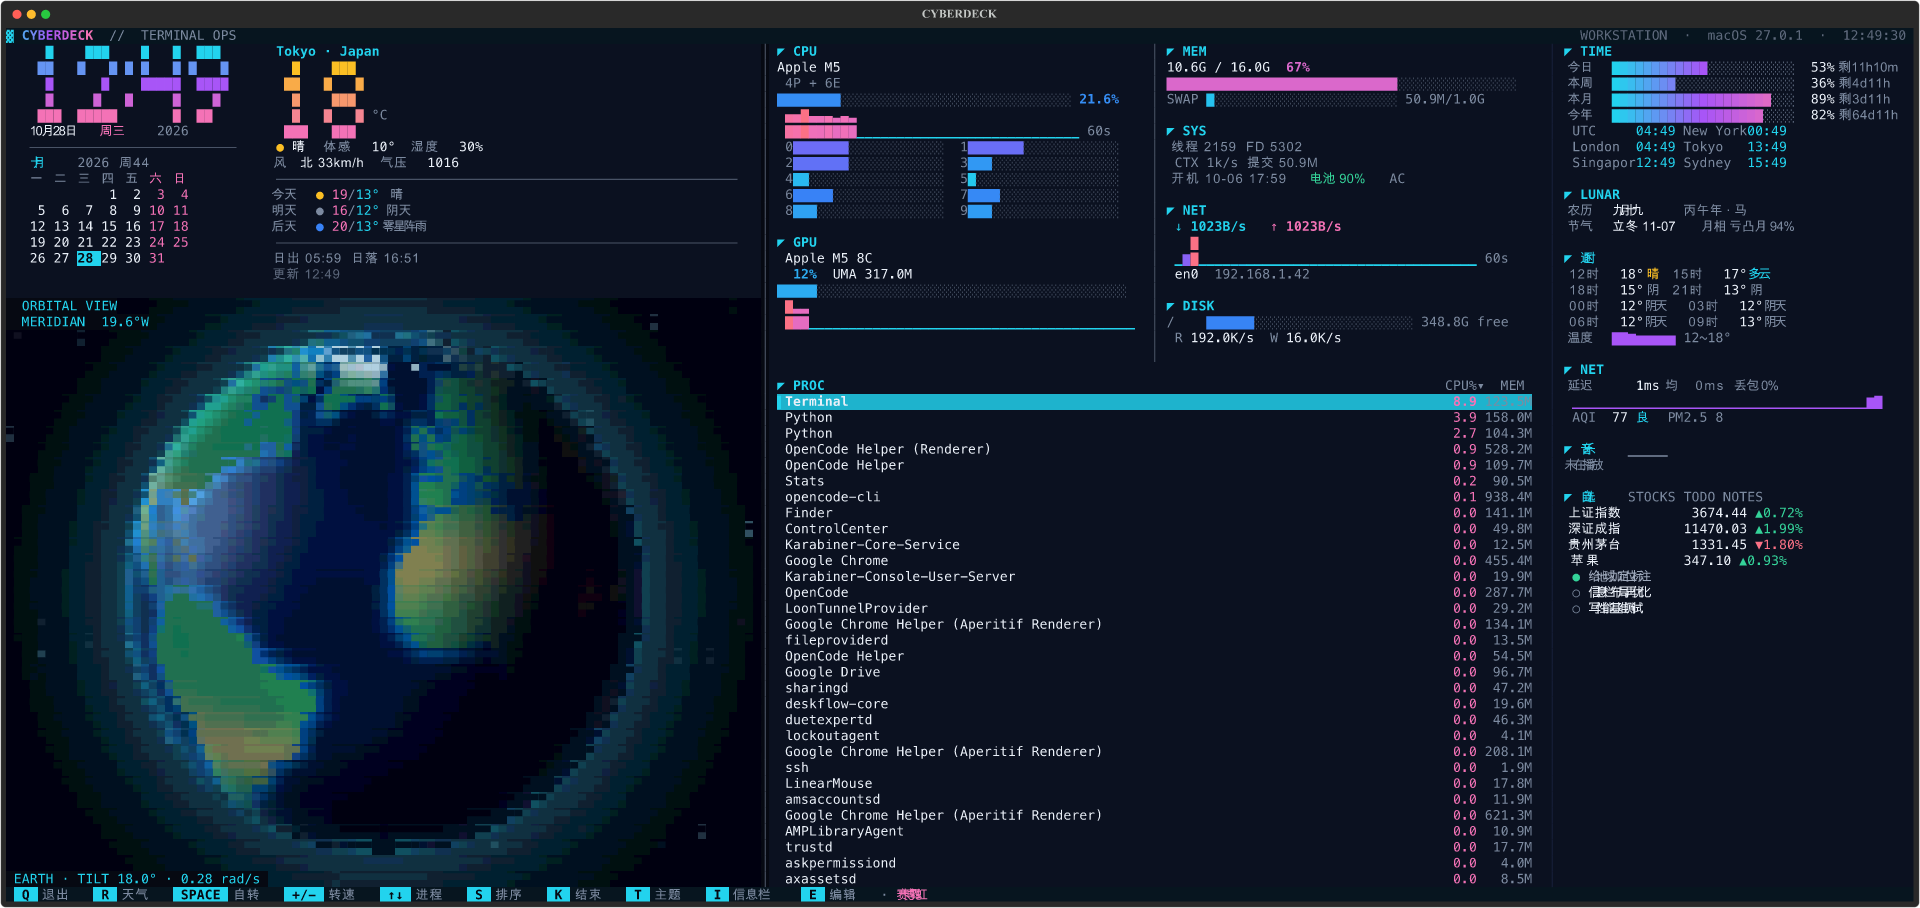
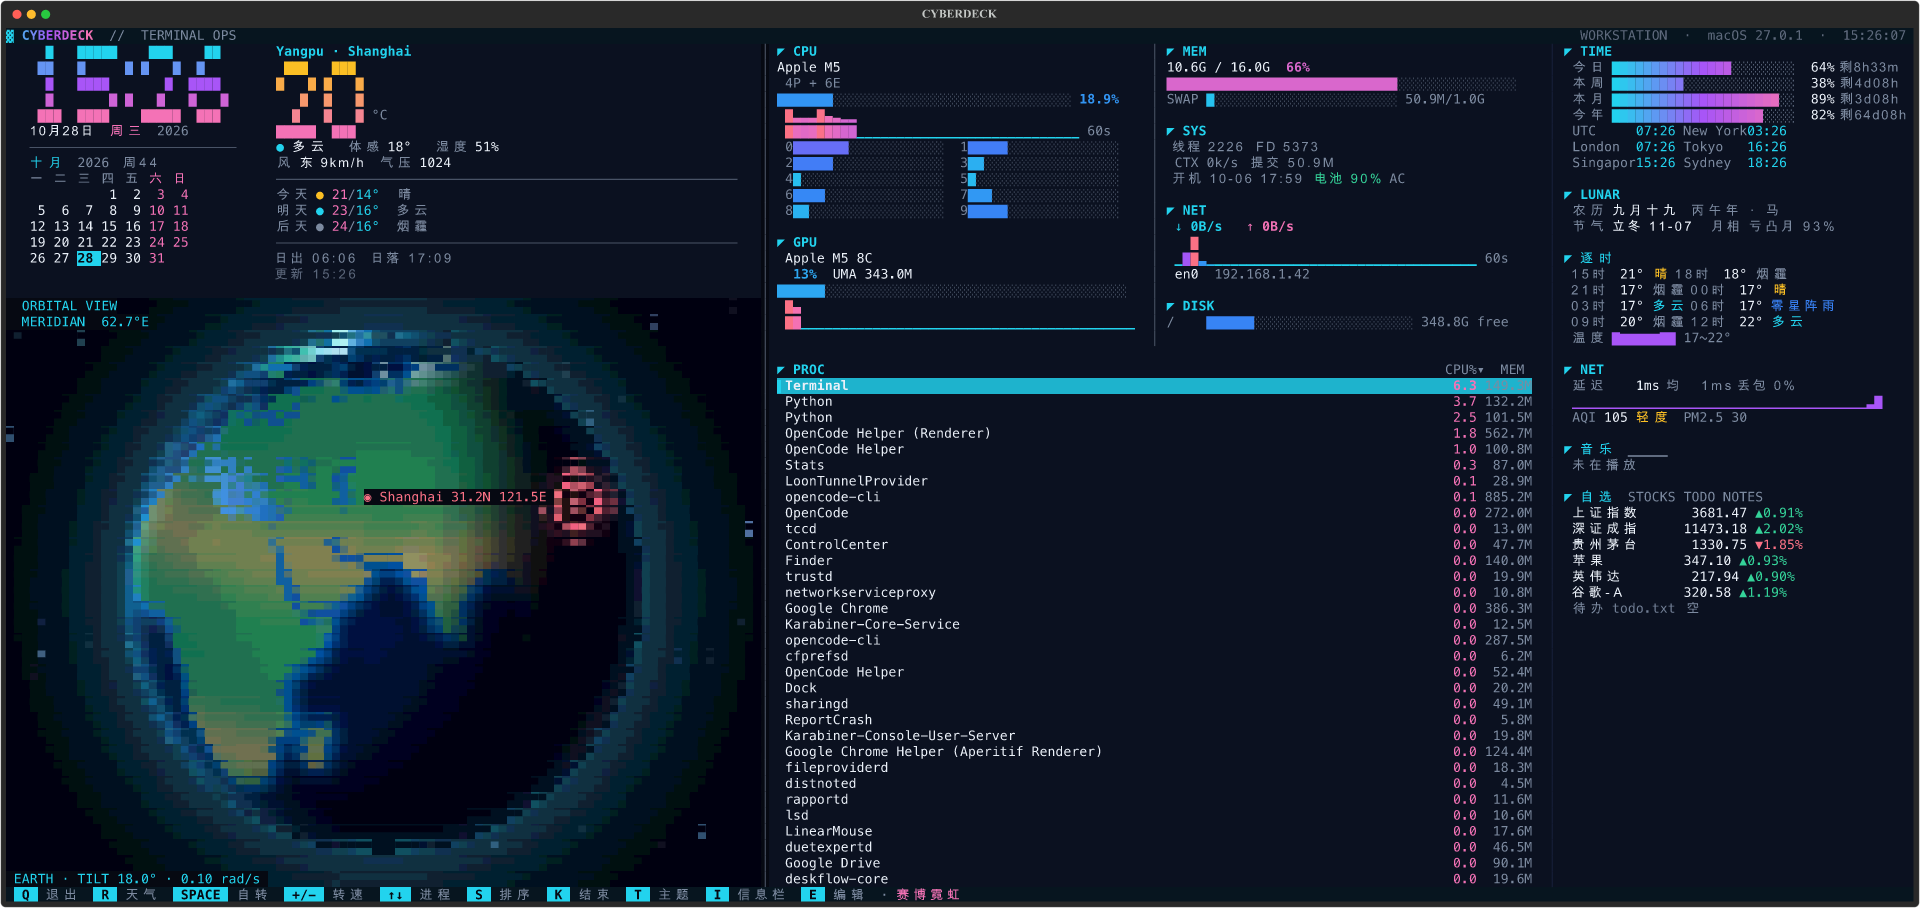
fix: make manual location survive clearing and live edits
- clearing the location field now removes location + city from disk and
  returns the weather city to the OS timezone
- reject malformed coordinates instead of silently wiping the old pin
- query wttr.in by coordinates when no name is given
- watch config.json so a hand-edited location updates the pin and weather
  within ~5 s, without a restart
- clear the globe marker when the pin disappears
- smoke tests restore config/todo/notes; bump to 0.3.0 and refresh docs

Also regenerate the macOS preview with the reticle and manual Shanghai pin.

diff --git a/src/cyberdeck/app.py b/src/cyberdeck/app.py
@@ -168,11 +168,16 @@ class CyberDeck(App):
         self.title = "CYBERDECK"
         self.config = storage.load_json("config.json") or {}
         pinned = self.config.get("location")
-        pinned_city = pinned.get("name") if isinstance(pinned, dict) else None
-        # --city > config city > pinned coordinates > OS timezone (IP guessing lies behind a VPN)
-        chosen = city or self.config.get("city") or pinned_city
-        self.city = chosen or system_city() or None
-        self._city_pinned = bool(chosen)
+        pin_name = pinned.get("name") if isinstance(pinned, dict) else None
+        cfg_city = self.config.get("city")
+        if cfg_city and pin_name and cfg_city == pin_name:
+            # older builds persisted the pin name as a separate city; the pin owns it now
+            self.config.pop("city", None)
+            cfg_city = None
+        # --city > config city > pinned name > OS timezone (IP guessing lies behind a VPN)
+        self._explicit_city = city or cfg_city
+        self.city = self._explicit_city or pin_name or system_city() or None
+        self._city_pinned = bool(self._explicit_city)
         try:
             self.fps = max(1, min(30, int(fps if fps is not None else self.config.get("fps", 8))))
         except (TypeError, ValueError):
@@ -199,6 +204,7 @@ class CyberDeck(App):
         self._sync_size(self.size)
         self.query_one(SystemPanel).focus()
         self._terminal_hint()
+        self.set_interval(5.0, self._sync_location_config)
 
     def _terminal_hint(self) -> None:
         """Apple Terminal has no truecolor; the Earth looks better in modern terminals."""
@@ -239,6 +245,45 @@ class CyberDeck(App):
         self.query_one("#left").styles.border_right = ("solid", theme.hexc(theme.mix(p.dim, p.bg, 0.35)))
         self.refresh()
 
+    def _weather_city(self) -> str | None:
+        """City for wttr.in: explicit override, else the pin (name or coordinates), else timezone."""
+        if self._explicit_city:
+            return self._explicit_city
+        pinned = self.config.get("location")
+        if isinstance(pinned, dict):
+            name = str(pinned.get("name") or "").strip()
+            if name:
+                return name
+            try:
+                return f"{float(pinned['lat']):.4f},{float(pinned['lon']):.4f}"
+            except (KeyError, TypeError, ValueError):
+                pass
+        return system_city()
+
+    def _apply_weather_city(self, target: str | None) -> None:
+        if target == self.city:
+            return
+        self.city = target
+        panel = self.query_one(WeatherPanel)
+        panel.city = target
+        panel.refresh_weather()
+
+    def _sync_location_config(self) -> None:
+        """Pick up a hand-edited `location` from config.json without a restart."""
+        fresh = storage.load_json("config.json")
+        if fresh is None:
+            return  # missing or mid-write; try again on the next tick
+        if "location" in fresh:
+            if fresh["location"] == self.config.get("location"):
+                return
+            self.config["location"] = fresh["location"]
+        else:
+            if "location" not in self.config:
+                return
+            self.config.pop("location", None)
+        self._apply_weather_city(self._weather_city())
+        self.query_one(Globe)._refresh_location()
+
     def _save_config(self) -> None:
         # merge into what is on disk: a hand-edited "location" must survive a theme switch
         fresh = storage.load_json("config.json") or {}
@@ -246,6 +291,13 @@ class CyberDeck(App):
         fresh["theme"] = theme.P.name
         if self._city_pinned:
             fresh["city"] = self.city
+            self.config["city"] = self.city
+        else:
+            # a pin-derived or timezone-derived city must not linger on disk
+            fresh.pop("city", None)
+            self.config.pop("city", None)
+        if "location" not in self.config:
+            fresh.pop("location", None)
         self.config = fresh
         storage.save_json("config.json", fresh)
 
@@ -293,18 +345,17 @@ class CyberDeck(App):
         self.config.setdefault("info", {})["stocks"] = stocks
 
         # manual pin: "lat, lon, city"; blank falls back to the timezone guess
-        located = parse_location((result.get("location") or "").strip())
-        if located:
+        text = (result.get("location") or "").strip()
+        located = parse_location(text) if text else None
+        if text and located is None:
+            self.notify("定位格式应为：纬度, 经度, 城市名；已保留原定位", severity="warning", timeout=5)
+        elif located:
             lat, lon, name = located
             self.config["location"] = {"lat": round(lat, 4), "lon": round(lon, 4), "name": name}
-            if name and name != self.city:
-                self.city = name
-                self._city_pinned = True
-                weather_panel = self.query_one(WeatherPanel)
-                weather_panel.city = name
-                weather_panel.refresh_weather()
+            self._apply_weather_city(self._weather_city())
         else:
             self.config.pop("location", None)
+            self._apply_weather_city(self._weather_city())
         self._save_config()
 
         path = panel._todo_file()
@@ -330,7 +381,7 @@ class CyberDeck(App):
 
 def main() -> None:
     parser = argparse.ArgumentParser(prog="cyberdeck", description="Terminal cyberdeck dashboard")
-    parser.add_argument("--city", help="wttr.in location, e.g. Hangzhou (default: auto by IP)")
+    parser.add_argument("--city", help="wttr.in city, e.g. Hangzhou (default: config pin, then OS timezone)")
     parser.add_argument("--fps", type=int, help="Earth animation FPS, 1-30 (default: 8, or config.json)")
     parser.add_argument("--still", action="store_true", help="start with the Earth paused (low power)")
     parser.add_argument("--version", action="version", version=f"cyberdeck {__version__}")

diff --git a/tools/smoke.py b/tools/smoke.py
@@ -9,11 +9,39 @@ sys.path.insert(0, str(Path(__file__).resolve().parents[1] / "src"))
 
 from textual.geometry import Size  # noqa: E402
 
+from cyberdeck import storage  # noqa: E402
 from cyberdeck.app import CyberDeck  # noqa: E402
 from cyberdeck.system import SystemPanel  # noqa: E402
 from cyberdeck.weather import WeatherPanel  # noqa: E402
 
 OUT = Path(__file__).parent
+
+
+def snapshot_user_files() -> dict[str, tuple[Path | None, bytes | None]]:
+    """Smoke tests press ctrl+s; keep the developer's real config/todo intact."""
+    snap: dict[str, tuple[Path | None, bytes | None]] = {}
+    for name in ("config.json", "todo.txt", "notes.txt"):
+        path = storage.data_path(name)
+        try:
+            data = path.read_bytes() if path is not None and path.exists() else None
+        except OSError:
+            data = None
+        snap[name] = (path, data)
+    return snap
+
+
+def restore_user_files(snap: dict[str, tuple[Path | None, bytes | None]]) -> None:
+    for path, data in snap.values():
+        if path is None:
+            continue
+        try:
+            if data is None:
+                path.unlink(missing_ok=True)
+            else:
+                path.write_bytes(data)
+        except OSError:
+            pass
+
 
 
 async def size_guard() -> None:
@@ -158,5 +186,10 @@ async def main() -> None:
         print(f"globe: engine {eng_ms:.2f}ms text {txt_ms:.2f}ms full {(time.perf_counter()-t0)/20*1000:.2f}ms")
 
 
-asyncio.run(main())
+snap = snapshot_user_files()
+try:
+    asyncio.run(main())
+finally:
+    restore_user_files(snap)
+    print("restored config/todo/notes")
 

diff --git a/tests/test_core.py b/tests/test_core.py
@@ -544,3 +544,38 @@ def test_globe_fps_and_pause():
     yaw = globe.yaw
     globe._tick()
     assert globe.yaw == yaw
+
+
+def test_cleared_location_disappears_from_disk(monkeypatch):
+    from cyberdeck import storage
+    from cyberdeck.app import CyberDeck
+
+    disk = {
+        "theme": "neon",
+        "city": "Hangzhou",
+        "location": {"lat": 30.2741, "lon": 120.1551, "name": "Hangzhou"},
+    }
+    saved: dict = {}
+    monkeypatch.setattr(storage, "load_json", lambda name: dict(disk))
+    monkeypatch.setattr(storage, "save_json", lambda name, payload: saved.update(payload) or True)
+
+    app = CyberDeck()
+    assert app.city == "Hangzhou"
+    assert "city" not in app.config  # the old pin-derived city was migrated away
+
+    app.config.pop("location", None)
+    app._save_config()
+    assert "location" not in saved
+    assert "city" not in saved
+
+
+def test_weather_city_uses_pin_coords(monkeypatch):
+    from cyberdeck import storage
+    from cyberdeck.app import CyberDeck
+
+    monkeypatch.setattr(storage, "load_json", lambda name: {"theme": "neon"})
+    app = CyberDeck()
+    app.config["location"] = {"lat": 30.0, "lon": 120.0, "name": ""}
+    assert app._weather_city() == "30.0000,120.0000"
+    app.config["location"]["name"] = "Hangzhou"
+    assert app._weather_city() == "Hangzhou"

diff --git a/src/cyberdeck/globe.py b/src/cyberdeck/globe.py
@@ -292,12 +292,10 @@ def _style(fg: int, bg: int) -> Style:
     key = (fg << 24) | bg
     st = _STYLE.get(key)
     if st is None:
-        if len(_STYLE) > 20000:  # long-running dashboards can see thousands of shades
+        if len(_STYLE) > 8192:  # a dashboard can run for weeks: keep the cache bounded
             _STYLE.clear()
         st = Style(color=Color.from_rgb((fg >> 16) & 255, (fg >> 8) & 255, fg & 255),
                    bgcolor=Color.from_rgb((bg >> 16) & 255, (bg >> 8) & 255, bg & 255))
-        if len(_STYLE) > 8192:  # a dashboard can run for weeks: keep the cache bounded
-            _STYLE.clear()
         _STYLE[key] = st
     return st
 
@@ -385,7 +383,7 @@ class Globe(Widget):
             marker = location_marker()
         except Exception:
             marker = None
-        if marker and marker != self.marker:
+        if marker != self.marker:
             self.marker = marker
             self.refresh()
 

diff --git a/src/cyberdeck/extras.py b/src/cyberdeck/extras.py
@@ -305,7 +305,7 @@ def _location() -> tuple[float, float, str] | None:
         # prefer the city the user asked wttr.in for over the nearest sub-district
         city = str(blob.get("city") or name or "")
         if pinned:
-            return pinned[0], pinned[1], pinned[2] or city
+            return pinned[0], pinned[1], pinned[2] or name or "HERE"
         return float(lat), float(lon), city
     except (KeyError, IndexError, TypeError, ValueError, AttributeError):
         if pinned:

diff --git a/tools/soak.py b/tools/soak.py
@@ -2,7 +2,7 @@
 
     uv run python tools/soak.py --seconds 180
 
-The app is mounted at the full 240x55 layout, all timers (globe 10 fps,
+The app is mounted at the full 240x55 layout, all timers (globe 8 fps,
 process table, clock, info polls) keep running, and resident memory is
 sampled every few seconds. A healthy dashboard plateaus; a rising last
 third means something is accumulating (cache, widget, history).

diff --git a/src/cyberdeck/__init__.py b/src/cyberdeck/__init__.py
@@ -1,3 +1,3 @@
 """cyberdeck — a terminal cyberdeck dashboard."""
 
-__version__ = "0.2.0"
+__version__ = "0.3.0"

diff --git a/README.md b/README.md
@@ -6,7 +6,8 @@
 全屏时再多一列「时间 / 农历 / 逐时 / 网络质量 / 自选（行情·音乐·待办）」。
 
 支持 **macOS（Apple Silicon / Intel）**、Windows 和 Linux。macOS 下会额外读取 P/E 核心、
-Apple GPU（IOKit，无需 sudo）、APFS 卷、热降频 / 内存压力和电池状态。
+Apple GPU（IOKit，无需 sudo）、APFS 卷、热降频 / 内存压力和电池状态。定位默认按系统时区推断，
+也可以在 `e` 里手填经纬度（挂 VPN 也能钉在真实位置）。
 
 ![preview](docs/preview.png)
 
@@ -157,7 +158,7 @@ sudo dnf install playerctl        # Fedora
 
 坐标来源按优先级：
 
-1. **手动定位**：按 `e` 在「定位」一行填 `纬度, 经度, 城市名`，或者直接写 `config.json` 的 `location` —— 精确，30 秒内生效
+1. **手动定位**：按 `e` 在「定位」一行填 `纬度, 经度, 城市名`，或者直接写 `config.json` 的 `location` —— 精确，几秒内生效
 2. **系统时区**推断的城市（`China Standard Time` → Shanghai）→ wttr.in 该城市的气象站坐标
 
 **为什么不用 IP 定位**：开着 VPN 时出口 IP 在东京，IP 地理库就把城市判成东京，天气和地球红点会一起错。系统时区跟着机器走，不受代理影响，所以默认从时区推城市。
@@ -170,8 +171,8 @@ sudo dnf install playerctl        # Fedora
 }
 ```
 
-改完 30 秒内自动生效：地球每 30 秒重读一次定位。`location` 不会因为按 `t` 换主题被覆盖。
-`name` 同时会当作天气城市，所以只写这一处就够了（`--city` 仍然优先）。
+改完 5~10 秒内自动生效：地球每 5 秒重读一次定位，天气城市也会跟着切换。`location` 不会因为按 `t` 换主题被覆盖。
+`name` 同时会当作天气城市；不写 `name` 时直接用经纬度查天气。留空会回到系统时区，`--city` 仍然优先。
 
 ## 常驻运行
 
@@ -193,7 +194,7 @@ Register-ScheduledTask -TaskName cyberdeck -Action $act `
 - 关掉显示器休眠再挂：`powercfg /change monitor-timeout-ac 0`（插电时），否则屏幕会先黑
 - 内存是否稳定：`uv run python tools/soak.py --seconds 180`，正常是平的，末尾三分之一持续上涨才算泄漏
 - 网络断了不会崩：行情/天气/AQI 各自失败只影响自己那块，保留上一次的数据
-- 地球默认 8 fps（约 11 ms/帧，单核 ~9%），`--fps 1..30` 可调，`--still` 直接定格（CPU ~4%）；运行中按 `space` 暂停自转，暂停后完全不重绘
+- 地球默认 8 fps（M5 上单核约 20%~25%，见性能表），`--fps 1..30` 可调，`--still` 直接定格（CPU ~4%）；运行中按 `space` 暂停自转，暂停后完全不重绘
 
 
 ## 主题
@@ -260,8 +261,8 @@ Register-ScheduledTask -TaskName cyberdeck -Action $act `
 | 模式 | CPU | 说明 |
 | --- | --- | --- |
 | 默认 8 fps | ~23% | 动画顺滑 |
-| `--fps 5` | ~16% | 常驻推荐，仍有明显自转 |
-| `--fps 4` | ~13% | 更省电，轻微跳帧 |
+| `--fps 5` | ~19% | 常驻推荐，仍有明显自转 |
+| `--fps 4` | ~16% | 更省电，轻微跳帧 |
 | `--still` | ~4% | 地球静止，适合纯看板 |
 
 ## 硬件数据来源

diff --git a/README.en.md b/README.en.md
@@ -9,7 +9,8 @@ time progress, the lunar calendar, hourly forecast, network quality and a custom
 
 Runs on **macOS (Apple Silicon / Intel)**, Windows and Linux. On macOS it also reads
 P/E cores, the Apple GPU through IOKit (no sudo), APFS volumes, thermal throttling,
-memory pressure and battery state.
+memory pressure and battery state. Location defaults to the OS timezone and can be
+pinned to exact coordinates from the `e` editor (VPN-safe).
 
 ![preview](docs/preview.png)
 
@@ -176,7 +177,7 @@ parks on the rim, so you always know where it went.
 Where the coordinates come from:
 
 1. **Manual**: press `e` and fill the location line, or set `location` in `config.json` —
-   exact, applied within 30 seconds
+   exact, applied within 5-10 seconds
 2. **OS timezone** (`China Standard Time` → Shanghai) → wttr.in returns that city's
    station coordinates
 
@@ -193,8 +194,8 @@ machine, not the proxy.
 }
 ```
 
-The globe re-reads this every 30 seconds, and `location` survives a theme switch.
-`name` doubles as the weather city, so one place is enough (`--city` still wins).
+The globe re-reads this every 5 seconds, the weather city follows, and `location` survives a theme switch.
+`name` doubles as the weather city; without it the coordinates are queried directly. Clearing the field returns to the OS timezone (`--city` still wins).
 
 ## Keeping it running (Windows)
 
@@ -217,7 +218,7 @@ Notes for a dashboard that stays up:
 - Check for leaks: `uv run python tools/soak.py --seconds 180` — flat is healthy; only a
   rising last third means something accumulates
 - Network failures stay local: quotes, weather and AQI each keep their last data
-- The Earth runs at 8 fps (~11 ms/frame, ~9% of a core); `--fps 1..30` tunes it, `--still`
+- The Earth runs at 8 fps (roughly 20-25% of one core on an M5, see the table below); `--fps 1..30` tunes it, `--still`
   freezes it (~4%), and `space` pauses with no redraws at all
 
 ## Themes
@@ -293,8 +294,8 @@ Measured on an Apple M5, 160×44 (percent of one core, app only):
 | Mode | CPU | Notes |
 | --- | --- | --- |
 | default 8 fps | ~23% | smooth |
-| `--fps 5` | ~16% | recommended for a permanent dashboard |
-| `--fps 4` | ~13% | lighter, slight stepping |
+| `--fps 5` | ~19% | recommended for a permanent dashboard |
+| `--fps 4` | ~16% | lighter, slight stepping |
 | `--still` | ~4% | frozen Earth, pure dashboard |
 
 ## Where the hardware numbers come from

diff --git a/CHANGELOG.md b/CHANGELOG.md
@@ -1,12 +1,15 @@
 # Changelog
 
-## Unreleased
+## 0.3.0 — 2026-10-28
 
 ### 定位
 
 - 地球红点改成十字准星：白核 + 呼吸环 + 雷达脉冲 + 四向刻度，alpha 合成保持红色，尺寸随地球缩放
 - 标签带经纬度并按显示宽度裁剪；转到背面时在地球边缘留 `◂ HERE` 箭头
 - 手动定位：`e` 弹窗新增「定位」一行（`纬度, 经度, 城市名`），或直接写 `config.json` 的 `location`
+- 留空会真正回到系统时区：同时从 `config.json` 删掉旧的 `location` / `city`，地球标记立即清除
+- 只填经纬度时直接用坐标查天气；格式错误会保留原定位并给出提示，不会静默清空
+- 运行中手改 `config.json` 的 `location` 也会在 5 秒内同步地球标记和天气城市，不需要重启
 - 默认城市改为按系统时区推断，挂 VPN 不会再被出口 IP 带到东京
 - `location.name` 同时作天气城市；换主题不再覆盖手写的 `location`
 
@@ -20,6 +23,8 @@
 
 - 新增英文 README（`README.en.md`），中英双向互链
 - 修掉 Textual SVG 导出把 CJK 记为 1 格导致的截图重叠（`tools/svgfix.py`），两张截图重新生成
+- macOS 预览图重新生成（手动定位 + 十字准星 + CJK 正确宽度）
+- `tools/smoke.py` 结束时恢复 `config.json` / `todo.txt` / `notes.txt`，不再覆盖本机配置
 
 ## 0.2.0 — 2026-10-28
 
